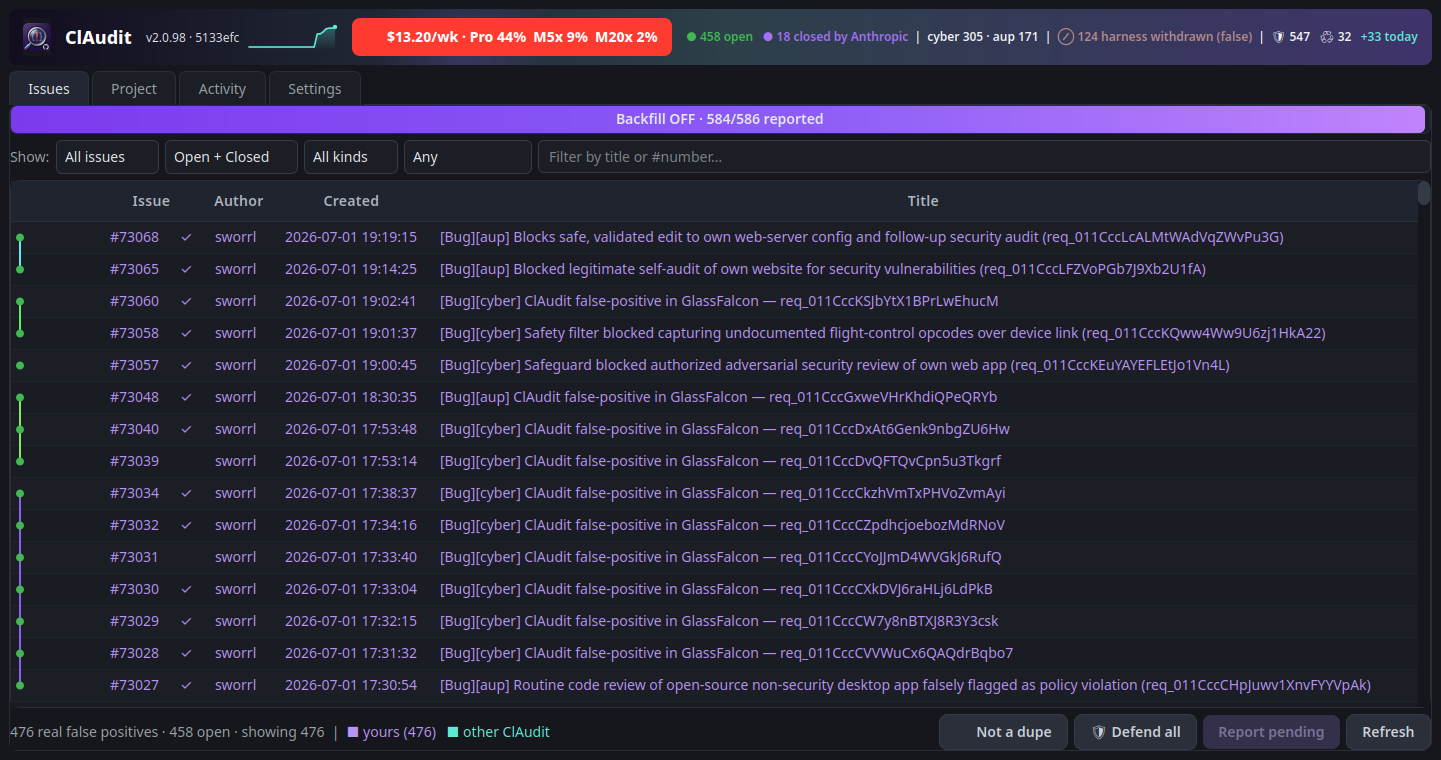
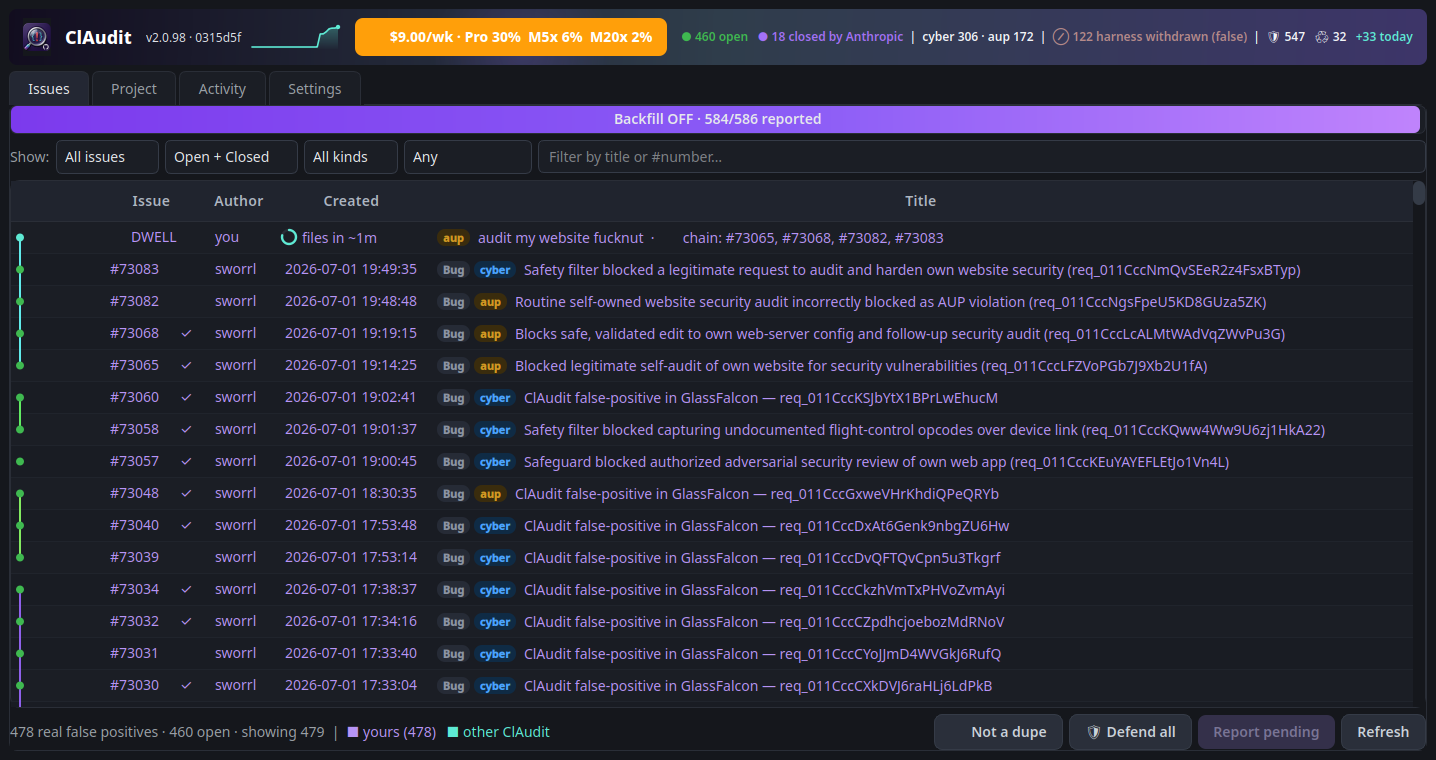
feat(gui): dwell countdown rings + kind pill chips in the Issues list
- TitleChipDelegate: leading [Bug][cyber]/[aup] tags paint as coloured pill
  chips (blue cyber, amber aup, grey Bug) with the rest of the title elided
  after them; owner colouring preserved
- DwellRingDelegate: ⏳ DWELL rows get a circular countdown in the Created
  column — a teal arc fills as the dwell elapses (fraction threaded through
  the row via a \x1f-suffixed field + item data role); advances with the
  45s board refresh
- README: chips + ring documented; Issues screenshot re-shot

diff --git a/claudit_gui.py b/claudit_gui.py
@@ -17,6 +17,7 @@ import datetime
 import json
 import math
 import os
+import re
 import subprocess
 import sys
 import threading
@@ -512,6 +513,96 @@ class ChainGraphDelegate(QtWidgets.QStyledItemDelegate):
         painter.setPen(QtCore.Qt.PenStyle.NoPen)
         painter.setBrush(QtGui.QColor(g["node_color"]))
         painter.drawEllipse(QtCore.QPointF(nx, ymid), 4.0, 4.0)
+        painter.restore()
+
+
+class TitleChipDelegate(QtWidgets.QStyledItemDelegate):
+    """Paints the Title column's leading [Bug][cyber]-style tags as coloured pill chips, then the
+    rest of the title as normal (eliding to fit). Owner colouring is preserved from the item's
+    foreground role."""
+    CHIP = {"cyber": ("#0f2b45", "#4aa3ff"), "aup": ("#3a2c0d", "#d29922"),
+            "harness": ("#33232d", "#b58a8a"), "bug": ("#262b36", "#8b94a3")}
+    TAG_RE = re.compile(r"^\s*((?:\[[A-Za-z]+\])+)\s*(.*)$", re.DOTALL)
+
+    def paint(self, painter, option, index):
+        text = index.data() or ""
+        m = self.TAG_RE.match(text)
+        if not m:
+            super().paint(painter, option, index)
+            return
+        opt = QtWidgets.QStyleOptionViewItem(option)
+        self.initStyleOption(opt, index)
+        opt.text = ""                                            # background/selection only
+        style = opt.widget.style() if opt.widget else QtWidgets.QApplication.style()
+        style.drawControl(QtWidgets.QStyle.ControlElement.CE_ItemViewItem, opt, painter, opt.widget)
+        tags = re.findall(r"\[([A-Za-z]+)\]", m.group(1))
+        rest = m.group(2)
+        painter.save()
+        painter.setRenderHint(QtGui.QPainter.RenderHint.Antialiasing)
+        f = QtGui.QFont(option.font)
+        f.setPixelSize(11)
+        f.setBold(True)
+        fm = QtGui.QFontMetrics(f)
+        x = option.rect.left() + 8
+        cy = option.rect.center().y()
+        for tag in tags:
+            bg, fgc = self.CHIP.get(tag.lower(), ("#262b36", "#8b94a3"))
+            wtx = fm.horizontalAdvance(tag) + 12
+            r = QtCore.QRectF(x, cy - 8, wtx, 17)
+            painter.setPen(QtCore.Qt.PenStyle.NoPen)
+            painter.setBrush(QtGui.QColor(bg))
+            painter.drawRoundedRect(r, 8, 8)
+            painter.setFont(f)
+            painter.setPen(QtGui.QColor(fgc))
+            painter.drawText(r, QtCore.Qt.AlignmentFlag.AlignCenter, tag)
+            x += wtx + 4
+        fg = index.data(QtCore.Qt.ItemDataRole.ForegroundRole)
+        painter.setFont(option.font)
+        painter.setPen(fg.color() if isinstance(fg, QtGui.QBrush) else QtGui.QColor("#e6e8ec"))
+        avail = option.rect.right() - 8 - (x + 4)
+        painter.drawText(QtCore.QRectF(x + 4, option.rect.top(), max(avail, 10), option.rect.height()),
+                         QtCore.Qt.AlignmentFlag.AlignVCenter,
+                         QtGui.QFontMetrics(option.font).elidedText(
+                             rest, QtCore.Qt.TextElideMode.ElideRight, max(avail, 10)))
+        painter.restore()
+
+
+class DwellRingDelegate(QtWidgets.QStyledItemDelegate):
+    """Paints a small circular countdown on ⏳ DWELL rows (Created column): a teal arc fills as the
+    dwell elapses, so 'how close to filing' is visible at a glance. Non-dwell rows paint normally."""
+    FRAC_ROLE = QtCore.Qt.ItemDataRole.UserRole + 2
+
+    def sizeHint(self, option, index):
+        s = super().sizeHint(option, index)
+        if index.data(self.FRAC_ROLE) is not None:
+            s.setWidth(s.width() + 26)                           # room for the ring
+        return s
+
+    def paint(self, painter, option, index):
+        frac = index.data(self.FRAC_ROLE)
+        if frac is None:
+            super().paint(painter, option, index)
+            return
+        opt = QtWidgets.QStyleOptionViewItem(option)
+        self.initStyleOption(opt, index)
+        opt.text = ""
+        style = opt.widget.style() if opt.widget else QtWidgets.QApplication.style()
+        style.drawControl(QtWidgets.QStyle.ControlElement.CE_ItemViewItem, opt, painter, opt.widget)
+        painter.save()
+        painter.setRenderHint(QtGui.QPainter.RenderHint.Antialiasing)
+        cy = option.rect.center().y()
+        ring = QtCore.QRectF(option.rect.left() + 8, cy - 7, 14, 14)
+        painter.setPen(QtGui.QPen(QtGui.QColor("#2a2e37"), 2.4))
+        painter.drawEllipse(ring)                                # track
+        painter.setPen(QtGui.QPen(QtGui.QColor("#5eead4"), 2.4,
+                                  QtCore.Qt.PenStyle.SolidLine, QtCore.Qt.PenCapStyle.RoundCap))
+        painter.drawArc(ring, 90 * 16, -int(min(max(float(frac), 0.0), 1.0) * 360 * 16))
+        fg = index.data(QtCore.Qt.ItemDataRole.ForegroundRole)
+        painter.setPen(fg.color() if isinstance(fg, QtGui.QBrush) else QtGui.QColor("#9aa0a6"))
+        painter.setFont(option.font)
+        painter.drawText(QtCore.QRectF(ring.right() + 6, option.rect.top(),
+                                       option.rect.width() - 30, option.rect.height()),
+                         QtCore.Qt.AlignmentFlag.AlignVCenter, index.data() or "")
         painter.restore()
 
 
@@ -1660,6 +1751,10 @@ class Main(QtWidgets.QMainWindow):
         self.table.setHorizontalHeaderLabels(self.COLS)
         self._chain_delegate = ChainGraphDelegate(self.table)   # column-0 chain-link gutter
         self.table.setItemDelegateForColumn(0, self._chain_delegate)
+        self._ring_delegate = DwellRingDelegate(self.table)     # countdown ring on ⏳ DWELL rows
+        self.table.setItemDelegateForColumn(3, self._ring_delegate)
+        self._chip_delegate = TitleChipDelegate(self.table)     # [cyber]/[aup] pill chips in titles
+        self.table.setItemDelegateForColumn(4, self._chip_delegate)
         self.table.horizontalHeader().setStretchLastSection(True)
         self.table.setEditTriggers(QtWidgets.QAbstractItemView.EditTrigger.NoEditTriggers)
         self.table.setSelectionBehavior(QtWidgets.QAbstractItemView.SelectionBehavior.SelectRows)
@@ -2688,8 +2783,10 @@ class Main(QtWidgets.QMainWindow):
                     chain = f"🔗 new chain forming — {pending_sibs} dwelling together"
                 else:
                     chain = "first in a new chain"
+                frac = min(max((now - t0) / max(cs.DWELL_SECONDS, 1), 0.0), 1.0)
                 rows.append(("9998", "dwelling", "⏳ DWELL", "you",
-                             f"files in ~{mins}m", f"{title}  ·  {chain}", "", chain, proj))
+                             f"files in ~{mins}m\x1f{frac:.3f}",   # \x1f: ring fraction for the delegate
+                             f"{title}  ·  {chain}", "", chain, proj))
 
         for it in self.community:
             st = it.get("state", "").lower()
@@ -2742,8 +2839,17 @@ class Main(QtWidgets.QMainWindow):
                 owner = None
             tip = why or ("Click to open in browser" if url else "Not filed yet")
             for c, val in enumerate(["", num, author, created, title]):   # col 0 painted by the delegate
+                frac = None
+                if c == 3 and "\x1f" in val:              # dwell row: split off the countdown fraction
+                    val, _, fs = val.partition("\x1f")
+                    try:
+                        frac = float(fs)
+                    except ValueError:
+                        frac = None
                 item = QtWidgets.QTableWidgetItem(val)
                 item.setData(QtCore.Qt.ItemDataRole.UserRole, url)
+                if frac is not None:
+                    item.setData(DwellRingDelegate.FRAC_ROLE, frac)
                 item.setToolTip(tip)
                 if c != 0 and owner:
                     item.setForeground(QtGui.QColor(owner))

diff --git a/claudit_scan.py b/claudit_scan.py
@@ -51,7 +51,7 @@ STATE_FILE = os.path.join(STATE_DIR, "filed.json")
 ERROR_LOG = os.path.join(STATE_DIR, "error-log.jsonl")
 LOCK_FILE = os.path.join(STATE_DIR, "watcher.lock")
 ISSUES_DB = os.path.join(STATE_DIR, "issues.jsonl")   # local record of every filed issue
-__version__ = "2.0.98"
+__version__ = "2.0.99"
 DEFAULT_REPO = "anthropics/claude-code"
 REPORT_HARNESS = False   # harness (auto-mode-classifier) denials are LOG-ONLY by default.
                          # They are local permission decisions, not server-side API false positives,

diff --git a/README.md b/README.md
@@ -8,7 +8,7 @@
 
 [![License: GPL v3](https://img.shields.io/badge/License-GPLv3-blue.svg)](LICENSE)
 [![CI](https://github.com/sworrl/ClAudit/actions/workflows/ci.yml/badge.svg)](https://github.com/sworrl/ClAudit/actions/workflows/ci.yml)
-![Version](https://img.shields.io/badge/version-2.0.98-brightgreen)
+![Version](https://img.shields.io/badge/version-2.0.99-brightgreen)
 ![Python](https://img.shields.io/badge/python-3.9%2B-blue)
 ![Platforms](https://img.shields.io/badge/platforms-Linux%20%7C%20macOS%20%7C%20Windows-lightgrey)
 [![Open false-positive reports](https://img.shields.io/endpoint?url=https://sworrl.github.io/ClAudit/counter.json)](https://github.com/anthropics/claude-code/issues?q=is%3Aissue+is%3Aopen+%22Filed+automatically+by+ClAudit%22)
@@ -75,7 +75,7 @@ Community vote — does Anthropic actually fix the over-blocking, or does Claude
 
 <img src="docs/screenshot.png" alt="ClAudit Issues tab — every false-positive issue, newest first, yours highlighted" width="780">
 
-<em>Issues tab: every cyber/AUP false-positive report across anthropics/claude-code and sworrl/ClAudit, yours highlighted, filterable by scope, state, kind, and defended status. The left gutter is a git-graph of the cross-linked chains: reports from the same work session share a coloured lane, so you can see at a glance which issues belong together. Items the dwell auto-filer is holding show as ⏳ DWELL rows with a countdown. The header carries the 🔥 lifetime token meter (see <a href="#burn-tokens-mode">burn-tokens mode</a>) — it pulses red⇄orange while burn mode is on.</em>
+<em>Issues tab: every cyber/AUP false-positive report across anthropics/claude-code and sworrl/ClAudit, yours highlighted, filterable by scope, state, kind, and defended status. Leading [Bug][cyber]/[aup] tags render as coloured pill chips, so the kind mix is scannable at a glance. The left gutter is a git-graph of the cross-linked chains: reports from the same work session share a coloured lane, so you can see at a glance which issues belong together. Items the dwell auto-filer is holding show as ⏳ DWELL rows with a live circular countdown that fills as the dwell elapses. The header carries a 30-day sparkline and the 🔥 token meter (see <a href="#burn-tokens-mode">burn-tokens mode</a>) — it pulses red⇄orange while burn mode is on, and fills with your weekly plan usage when quiet.</em>
 
 <br><br>
 
@@ -325,6 +325,8 @@ title.
   (they stay a separate "harness withdrawn (false)" tally in the stats bar).
 - **Ownership colors:** your issues in purple, other ClAudit users' in teal; newest first with exact
   local timestamps.
+- **Kind chips:** the leading `[Bug][cyber]` / `[aup]` tags paint as coloured pill chips (blue cyber,
+  amber aup), so the kind mix reads at a glance without parsing bracket soup.
 - **Double-click any row** for a **detail panel**: status and close reason, kind, Request IDs, and a
   full **timeline** (filed, dup-bot flagged, defended, closed by whom and why, reopened) built from
   the live GitHub timeline, plus an **Open on GitHub** button and a **Defend** button for any issue
@@ -338,7 +340,8 @@ title.
   cyber/AUP blocks are held for a dwell (default 5 min) so repeats accrue as their own incidents,
   then the LLM gate judges each is a genuine false positive, burn-tokens composes it, and it files as
   one **bespoke issue per Request ID**, cross-linked to its siblings from the same session. Held items
-  show as **⏳ DWELL** rows with a "files in ~N min" countdown and their chain. Toggle it (and the
+  show as **⏳ DWELL** rows with a **circular countdown ring** that fills as the dwell elapses, a
+  "files in ~N min" label, and their chain. Toggle it (and the
   dwell length) live in the **Settings tab** or the tray; off by default (the FOSS default stays
   review-before-send).
 - **Activity tab:** a **pseudo-3D chrono-line** of the **real cyber/AUP false positives** (the